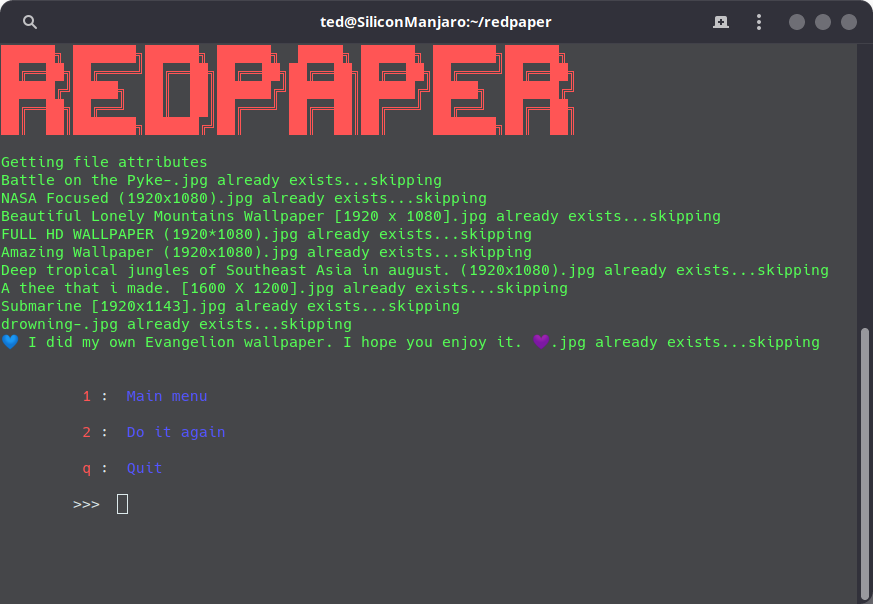
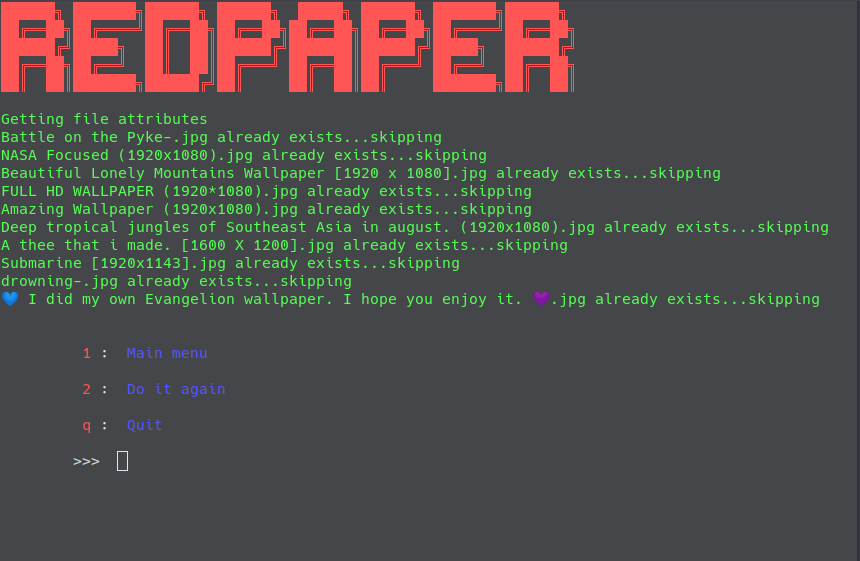
Created README

diff --git a/settings.py b/settings.py
@@ -50,17 +50,12 @@ d_limit = int(config['settings']['download_limit'])
 wall_selection_method = config['settings']['wallpaper_selection_method']
 
 global message
-message = "MAIN SETTINGS MENU \n"
-banner = """
-██████╗ ███████╗██████╗ ██████╗  █████╗ ██████╗ ███████╗██████╗
+message = ""
+banner = """██████╗ ███████╗██████╗ ██████╗  █████╗ ██████╗ ███████╗██████╗
 ██╔══██╗██╔════╝██╔══██╗██╔══██╗██╔══██╗██╔══██╗██╔════╝██╔══██╗
 ██████╔╝█████╗  ██║  ██║██████╔╝███████║██████╔╝█████╗  ██████╔╝
 ██╔══██╗██╔══╝  ██║  ██║██╔═══╝ ██╔══██║██╔═══╝ ██╔══╝  ██╔══██╗
-██║  ██║███████╗██████╔╝██║     ██║  ██║██║     ███████╗██║  ██║
-\n
->>>>>>>>>>>>>>>>>>>>>>>>>> SETTINGS <<<<<<<<<<<<<<<<<<<<<<<<<<<<
-"""
-# os.chdir(config['settings']['working_dir'])
+██║  ██║███████╗██████╔╝██║     ██║  ██║██║     ███████╗██║  ██║"""
 
 
 def clear():
@@ -71,7 +66,7 @@ def Red():
     """Prints the bunner with whatever message from the operation
     """
     global message
-    red_banner = f"\t\t{red}{banner}{normal}"
+    red_banner = f"{red}{banner}{normal}"
     clear()
     print(red_banner)
     print(message)
@@ -88,7 +83,7 @@ def max_dl_choice():
         The number cannot exceed 100.
         Current value is {d_limit}
         {normal}\n
-        {red}q{normal}: {blue} main menu{normal}
+        {red}x{normal}: {blue} main menu{normal}
         >>>
         """)
     try:
@@ -101,7 +96,7 @@ def max_dl_choice():
             set_settings()
             main_settings()
     except ValueError:
-            if max_dl == "q" or max_dl == "Q":
+            if max_dl == "x" or max_dl == "X":
                 main_settings()
             else:
                 error = "You did not enter a number"
@@ -121,9 +116,9 @@ def change_path():
                     This is case sensivite. "Pics" and "pics" are different
                     e.g. /home/user/Pictures\n
                     Current path is: {pictures}\n{normal}
-                    {red}q{normal} : {blue}main settings{normal}
+                    {red}x{normal} : {blue}main settings{normal}
                     >>> """)
-    if new_path == "q":
+    if new_path == "x":
         main_settings()
         return
     elif not os.path.exists(new_path):
@@ -151,7 +146,7 @@ def wall_selection():
             {normal}
             {red} 3 {normal}: {blue} from latest downloads in download order
             {normal}
-            {red} q {normal}: {blue} main settings {normal}\n
+            {red} x {normal}: {blue} main settings {normal}\n
             >>>
             """)
     if selection_mode == "1":
@@ -166,7 +161,7 @@ def wall_selection():
         config.set('settings', 'Wallpaper_selection_method',
                    "sequential")
         set_settings()
-    elif selection_mode == "q":
+    elif selection_mode == "x":
         main_settings()
         return
     else:
@@ -178,8 +173,7 @@ def wall_selection():
 def restore_default():
     global message
     Red()
-    choice = input(f"""
-            {green}
+    choice = input(f"""{green}
             This section allows you to reset all the settings to default.
             Note that this cannot be undone. \n{normal}
             You sure you want to continue?\n
@@ -206,9 +200,7 @@ def restore_default():
 def main_settings():
     global message
     Red()
-    a = 38
-    choice = input(f"""
-            {green}
+    choice = input(f"""{green}
             Welcome to redpaper settings menu.
             Choose an option:\n{normal}
             {red} 1 {normal}: {blue} Change download location{normal} \n
@@ -216,19 +208,16 @@ def main_settings():
             {normal}
             {red} 3 {normal}: {blue} Change the download limit{normal}\n
             {red} r {normal}: {blue} Reset to default {normal}\n
-            {red} q {normal}: {blue} main menu {normal}\n
+            {red} x {normal}: {blue} main menu {normal}\n
             >>>  """)
     if choice == "1":
-        message = "PATH CHANGE MENU\n"
         change_path()
     if choice == "2":
-        message = "WALLPAPER SELECTION METHOD MENU\n"
         wall_selection()
     elif choice == "3":
         max_dl_choice()
     elif choice == "r" or choice == "R":
-        message = "RESET MENU\n"
         restore_default()
         main_settings()
-    elif choice == "q" or choice == "Q":
+    elif choice == "x" or choice == "X":
         clear()

diff --git a/menu.py b/menu.py
@@ -6,17 +6,8 @@ import wall_set
 from settings import set_settings
 from settings import main_settings
 from settings import clear
-
+from settings import banner
 config = configparser.ConfigParser()
-banner = """
-██████╗ ███████╗██████╗ ██████╗  █████╗ ██████╗ ███████╗██████╗
-██╔══██╗██╔════╝██╔══██╗██╔══██╗██╔══██╗██╔══██╗██╔════╝██╔══██╗
-██████╔╝█████╗  ██║  ██║██████╔╝███████║██████╔╝█████╗  ██████╔╝
-██╔══██╗██╔══╝  ██║  ██║██╔═══╝ ██╔══██║██╔═══╝ ██╔══╝  ██╔══██╗
-██║  ██║███████╗██████╔╝██║     ██║  ██║██║     ███████╗██║  ██║
-\n
-<<<<<<<<<<<<<<<<<<<<<<<<<< MAIN MENU >>>>>>>>>>>>>>>>>>>>>>>>>>>
-"""
 
 
 def Red():
@@ -36,17 +27,17 @@ red = "\033[91m"
 blue = "\033[94m"
 
 
-def quit_choice(*args):
+def exit_choice(*args):
     if not len(args) == 0:
         stay = input(f"""\n
         {red} 1 {normal}: {blue} Main menu {normal}\n
         {red} 2 {normal}: {blue} Do it again {normal}\n
-        {red} q {normal}: {blue} Quit {normal}\n
+        {red} x {normal}: {blue} exit {normal}\n
         >>>  """)
     else:
         stay = input(f"""\n
                 {red} 1 {normal}: {blue} Main menu {normal}\n
-                {red} q {normal}: {blue} Quit {normal}\n
+                {red} x {normal}: {blue} exit {normal}\n
         >>>  """)
     if stay == "1":
         main_menu()
@@ -54,38 +45,38 @@ def quit_choice(*args):
         for func in args:
             func()
             Red()
-            quit_choice(func)
-    elif stay == "q" or "Q":
+            exit_choice(func)
+    elif stay == "x" or "X":
         clear()
         return
 
 
 def main_menu():
     global message
-    message = ""
     Red()
-    choice = input(f"""
-            {green}
+    
+    choice = input(f"""{green}
             Welcome to Redpaper. This is a sudo-GUI used to
-            control the underlying Redpaper program.\n{normal}
-            Select an option:\n
+            control the underlying Redpaper program.
+            Select an option:\n{normal}
            {red} 1 {normal}: {blue} Download wallpapers {normal} \n
            {red} 2 {normal}: {blue} Change wallpaper{normal}\n
            {red} 3 {normal}: {blue} Settings{normal}\n
            {red} 4 {normal}: {blue} Help {normal}\n
-           {red} q {normal}: {blue} Quit {normal}\n
+           {red} x {normal}: {blue} exit {normal}\n
             >>>  """)
     if choice == "1":
-        message = f"{green} Downloading wallpapers...{normal}\n"
+        message = ""
         Red()
         fetch.wall_dl()
-        quit_choice(fetch.wall_dl)
+        exit_choice(fetch.wall_dl)
     if choice == "2":
-        message = f"{green} Changing wallpaper...{normal}\n"
+        message = f"{green} Changed wallpaper {normal}\n"
         Red()
         wall_set.set_wallpaper()
-        quit_choice(wall_set.set_wallpaper)
+        exit_choice(wall_set.set_wallpaper)
     elif choice == "3":
+        message = ""
         main_settings()
         main_menu()
     elif choice == "4" or choice == "R":
@@ -94,6 +85,9 @@ def main_menu():
         Red()
         print(f"""
               {green}This section is still under develpment{normal}""")
-        quit_choice()
-    elif choice == "q" or choice == "Q":
+        exit_choice()
+    elif choice == "x" or choice == "X":
         clear()
+    else:
+        message = f"\n{red_error} Choice not understood, try again.{normal}"
+        main_menu()

diff --git a/fetch.py b/fetch.py
@@ -15,7 +15,13 @@ gi.require_version('Notify', '0.7')
 from gi.repository import Notify
 
 global counter
-# define directoires
+
+normal = "\033[00m"
+red_error = "\033[31;47m"
+green = "\033[92m"
+red = "\033[91m"
+blue = "\033[94m"
+yellow = "\033[93"
 
 wall_names = {}
 counter = 1
@@ -59,7 +65,7 @@ def auth():
     top_paper = wallpaper.hot(limit=d_limit)
 
     with open("post_attr", "w") as attrs:
-        print("Writing attributes")
+        print(f"{green}Getting file attributes")
         for post in top_paper:
             attrs.write(str(post.title) + "\t" + (str(post.url)))
             attrs.write("\r")
@@ -87,14 +93,14 @@ def wall_dl():
                 continue
             else:
                 try:
-                    print("checking image size")
+                    print(f"checking image size")
                     image_link = link[1]
                     payload = requests.get(image_link)
                     img = Image.open(BytesIO(payload.content))
                     width, height = img.size
                     ar = width / height
                 except:
-                    print("Error Getting file ... skipping")
+                    print(f"{red}Error Getting file ... skipping{green}")
                     continue
 
                 if ar > 1.2:
@@ -115,8 +121,9 @@ def wall_dl():
                         continue
 
                 else:
-                    print("File skipped ...")
+                    print(f"{yellow}File skipped ...{green}")
                     continue
+            print(f"{normal}")
 
     os.chdir(working_dir)
     with open("wall_data.json", "w") as wall_data:

diff --git a/setup.py b/setup.py
@@ -3,7 +3,7 @@
 from setuptools import setup, find_packages
 setup(
     name="RedPaper",
-    version="0.0.2",
+    version="1.0",
     install_requires=['docutils>=0.3', 'praw>=6.2.0'],
 
     # metadata to display on PyPI

diff --git a/__init__.py b/__init__.py
@@ -2,4 +2,4 @@
 
 
 # Version of Redpaper
-__version__ = "Redpaper v0.01"
+__version__ = "Redpaper v1.0"

diff --git a/README.md b/README.md
@@ -1,0 +1,37 @@
+# Redpaper
+## Overview
+Redpaper is a simple tool that is used to download and set new wallpapers.  
+It gets the images from reddit.com.  
+
+If you frequently search for, download and set wallpapers, or like to give you system  
+a new look, you this tool is for you.  When you want to change the wallpaper, you simply  
+run Redpaper's download tool and it will scout Redit for the best wallpaper of the  
+day and download them. You can then change the wallpaper using it.
+
+![Main Menu](https://raw.githubusercontent.com/keystroke3/redpaper/master/screenshots/main-menu.png)
+
+## Installaion
+
+Redpaper only works on Linux systems at the moment, therefor only people running Linux  
+can use it.  
+### Dependancies
+* Python 3.6 or later  
+* Python3-pip  
+* Requests  
+* Pillow  
+* PyGObject
+
+Python3 should come by default on a Linux system, but if you are not sure if it is installed,  
+you can run  `python3` in your terminal. If you get no errors, then you can proceed. If you  
+get an error, you should  visit python.org to get it.  
+Pip comes by default with Python. If for some reason you don't have it, you can run:  
+`curl https://bootstrap.pypa.io/get-pip.py -o get-pip.py`  
+and then  
+`python get-pip.py`  
+The other dependancies will be automatically installed.  
+### Procedure
+When the first two dependancies have been met, you can run the following command to do the install:  
+`git clone https://github.com/keystroke3/redpaper.git && cd redpaper`  
+`sudo sh install.sh`  
+
+For information on how to use, please refer to the [Wiki](https://github.com/keystroke3/redpaper/wiki)  
